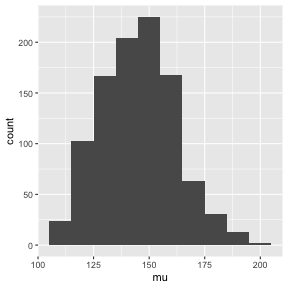
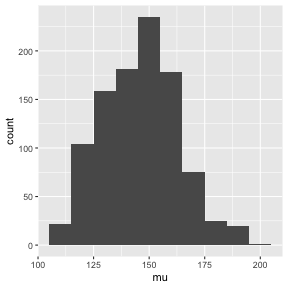
Open resampling slides

diff --git a/docs/slides/lec-slides/05-resampling.html b/docs/slides/lec-slides/05-resampling.html
@@ -265,7 +265,7 @@ Run `\(k\)`-fold CV with `\(K =\)` 5 run 8 separate times, each with different r
 
 ## Caution!
 
-- No! CV at Step 2 ignores the fact that in Stpe 1, the procedure **already saw the labels of the training** and made use of them. Forgetting this would result in **leakage**.
+- No! CV at Step 2 ignores the fact that in Step 1, the procedure **already saw the labels of the training** and made use of them. Forgetting this would result in **leakage**.
 
   - Instead, we should include Step 1 as part of the validation process. 
   
@@ -352,12 +352,12 @@ samp1
 ```
 
 ```
-## [1] 200 150 150 150
+## [1] 200 200 200 130
 ```
 
 --
 
-- Obtain our first estimate for `\(\mu\)`, the population mean daily caffeine consumption in adults: `\(\hat{\mu}_{1} = 162.5\)`
+- Obtain our first estimate for `\(\mu\)`, the population mean daily caffeine consumption in adults: `\(\hat{\mu}_{1} = 182.5\)`
 
 ---
 
@@ -372,10 +372,10 @@ samp2
 ```
 
 ```
-## [1] 110 110 150 130
+## [1] 110 110 110 110
 ```
   
-- `\(\hat{\mu}_{2} = 125\)`
+- `\(\hat{\mu}_{2} = 110\)`
 
 --
 
@@ -394,7 +394,7 @@ samp2
 
 --
 
-- Mean over all estimates is `\(\hat{\mu} = 146.5\)`
+- Mean over all estimates is `\(\hat{\mu} = 147.295\)`
 
 - Approximate 95% confidence interval for the mean are the 5% and 95% quantiles of the 1000 mean estimates: (120, 182.5) 
 
@@ -422,7 +422,7 @@ samp2
 
 ---
 
-### Can boostrap estimate prediction error?
+### Can bootstrap estimate prediction error?
 
 
 - Idea: take a bootstrap sample as training set, and the original sample as validation set. Repeat `\(B\)` times.
@@ -437,7 +437,7 @@ samp2
   
 ---
 
-### Can boostrap estimate prediction error?
+### Can bootstrap estimate prediction error?
 
 - Solution? Only use prediction for the observations that did not (by chance) occur in current bootstrap sample
 

diff --git a/docs/schedule.html b/docs/schedule.html
@@ -873,8 +873,8 @@
       <td>Resampling</td>
 
       
-        <td align="center"><font color="f1f1f1">
-          <i class="fa fa-laptop fa-lg"></i></font></td>
+      <td align="center"><a href="./slides/lec-slides/05-resampling.html">
+          <i class="fa fa-laptop fa-lg"></i></a></td>
       
       
       

diff --git a/docs/slides/lec-slides/08-trees-slides.html b/docs/slides/lec-slides/08-trees-slides.html
@@ -702,7 +702,7 @@ class: middle, center
 
 ---
 
-## Boosting for regression treeds
+## Boosting for regression trees
 
 1. Set `\(\hat{f}(x) = 0\)` and `\(r_{i} = y_{i}\)` for all `\(i\)` in the dataset
 
